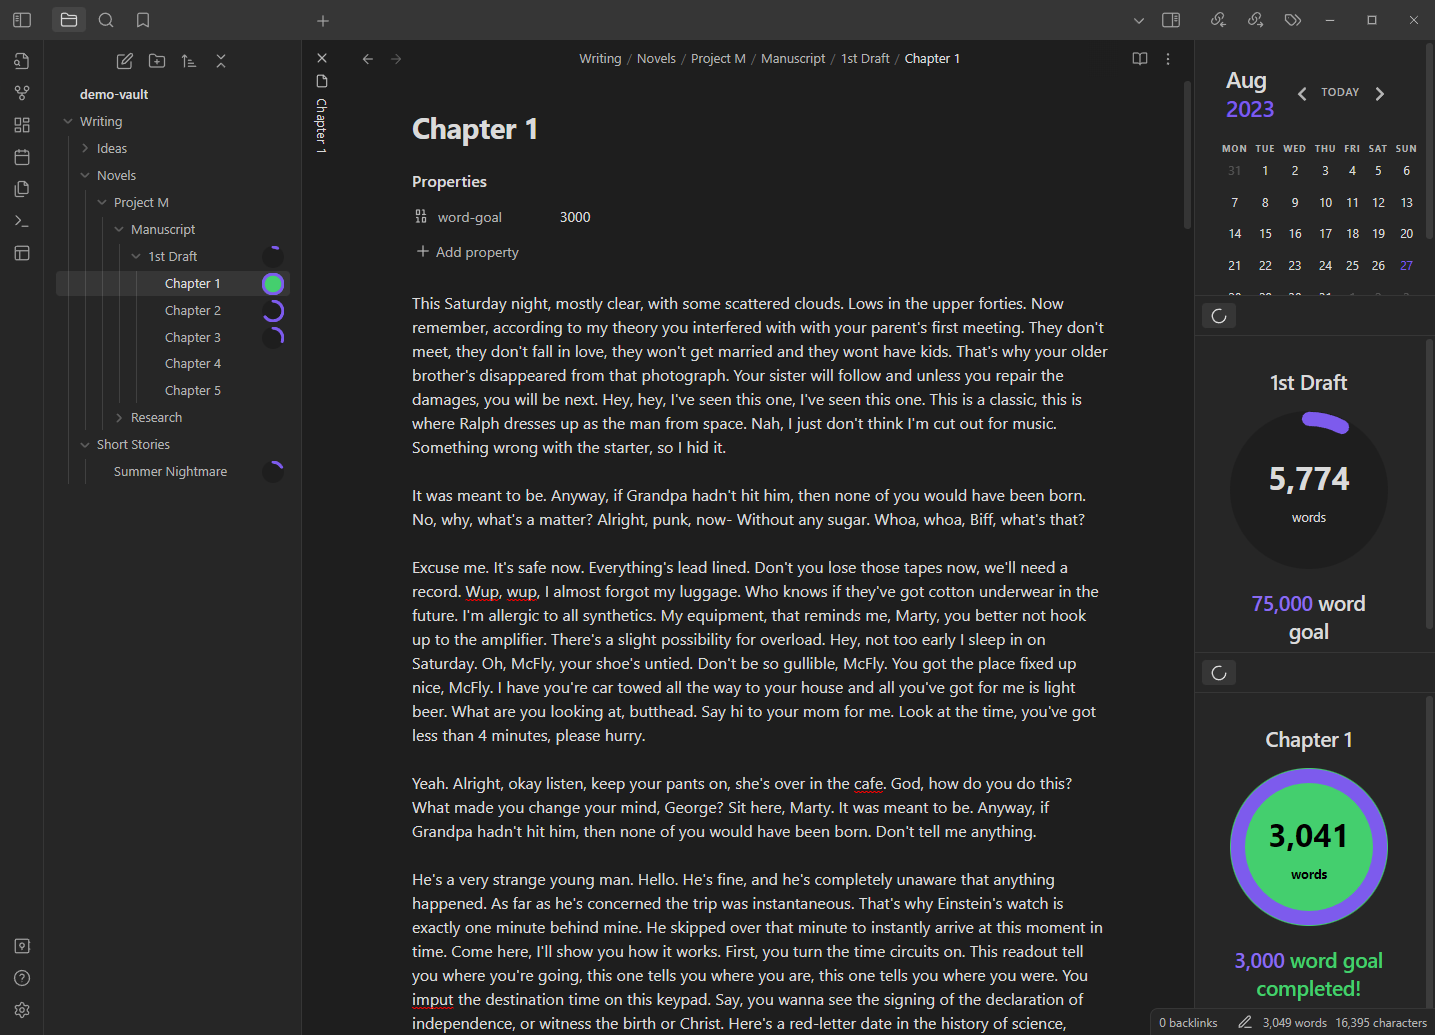
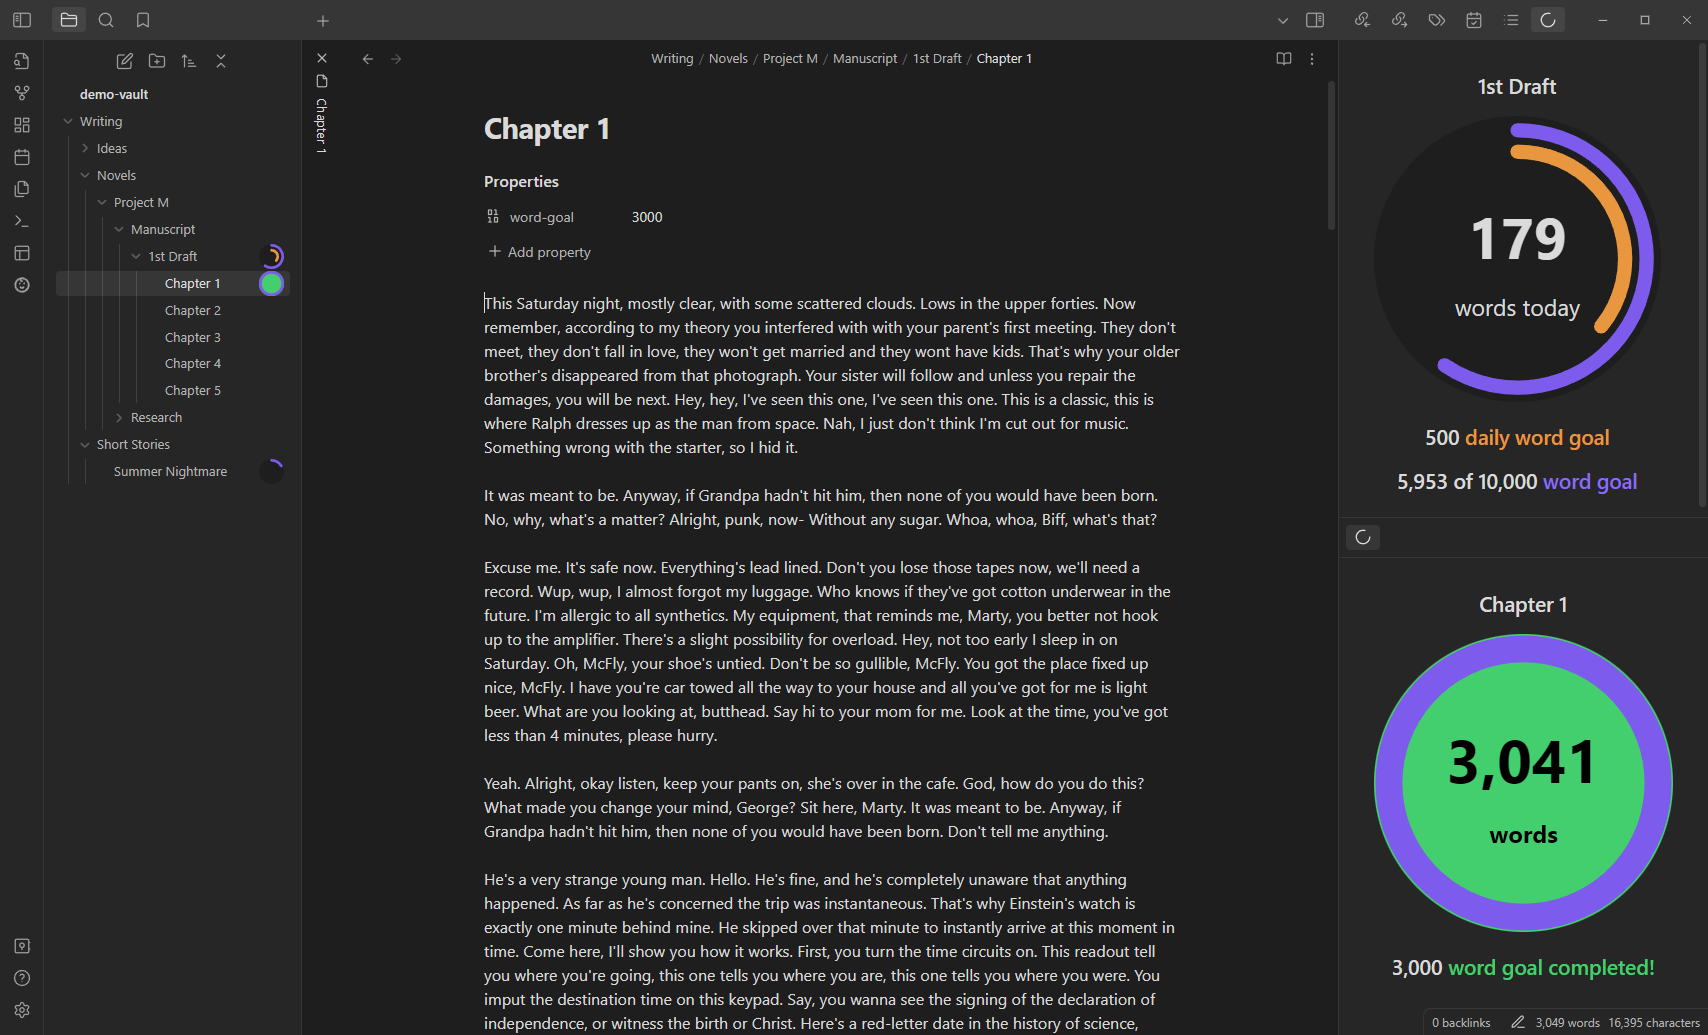
Updates README for new daily goal feature re #2

diff --git a/README.md b/README.md
@@ -18,11 +18,18 @@ For notes, and entry will be added to the frontmatter of your note with the word
 
 There is also a command to add a goal for any note or folder in your vault.
 
+## Daily goals
+Using the same file explorer and command palette commands, you can also set a daily goal alongside or instead of your overall goal to a note or folder. Daily goals reset each day so you can set yourself a target for the number of words you want to write each day andd also see your progress towards your overall goal.
+
+![](./images/demo-screenshot-3.png)
+
+The name for the frontmatter property is `daily-word-goal` by default. You can change the property name in the plugin settings.
+
 ## Updating a goal
 You can update goals in 3 ways:
 1. Using the add/update command.
 2. Using the file explorer context menu item.
-3. For notes only, updating the value of the goal frontmatter property.
+3. For notes only, updating the value of the goal frontmatter properties.
 
 ## Viewing goals
 You can view the goal set for the current note or for any file or folder using a couple of commands:
